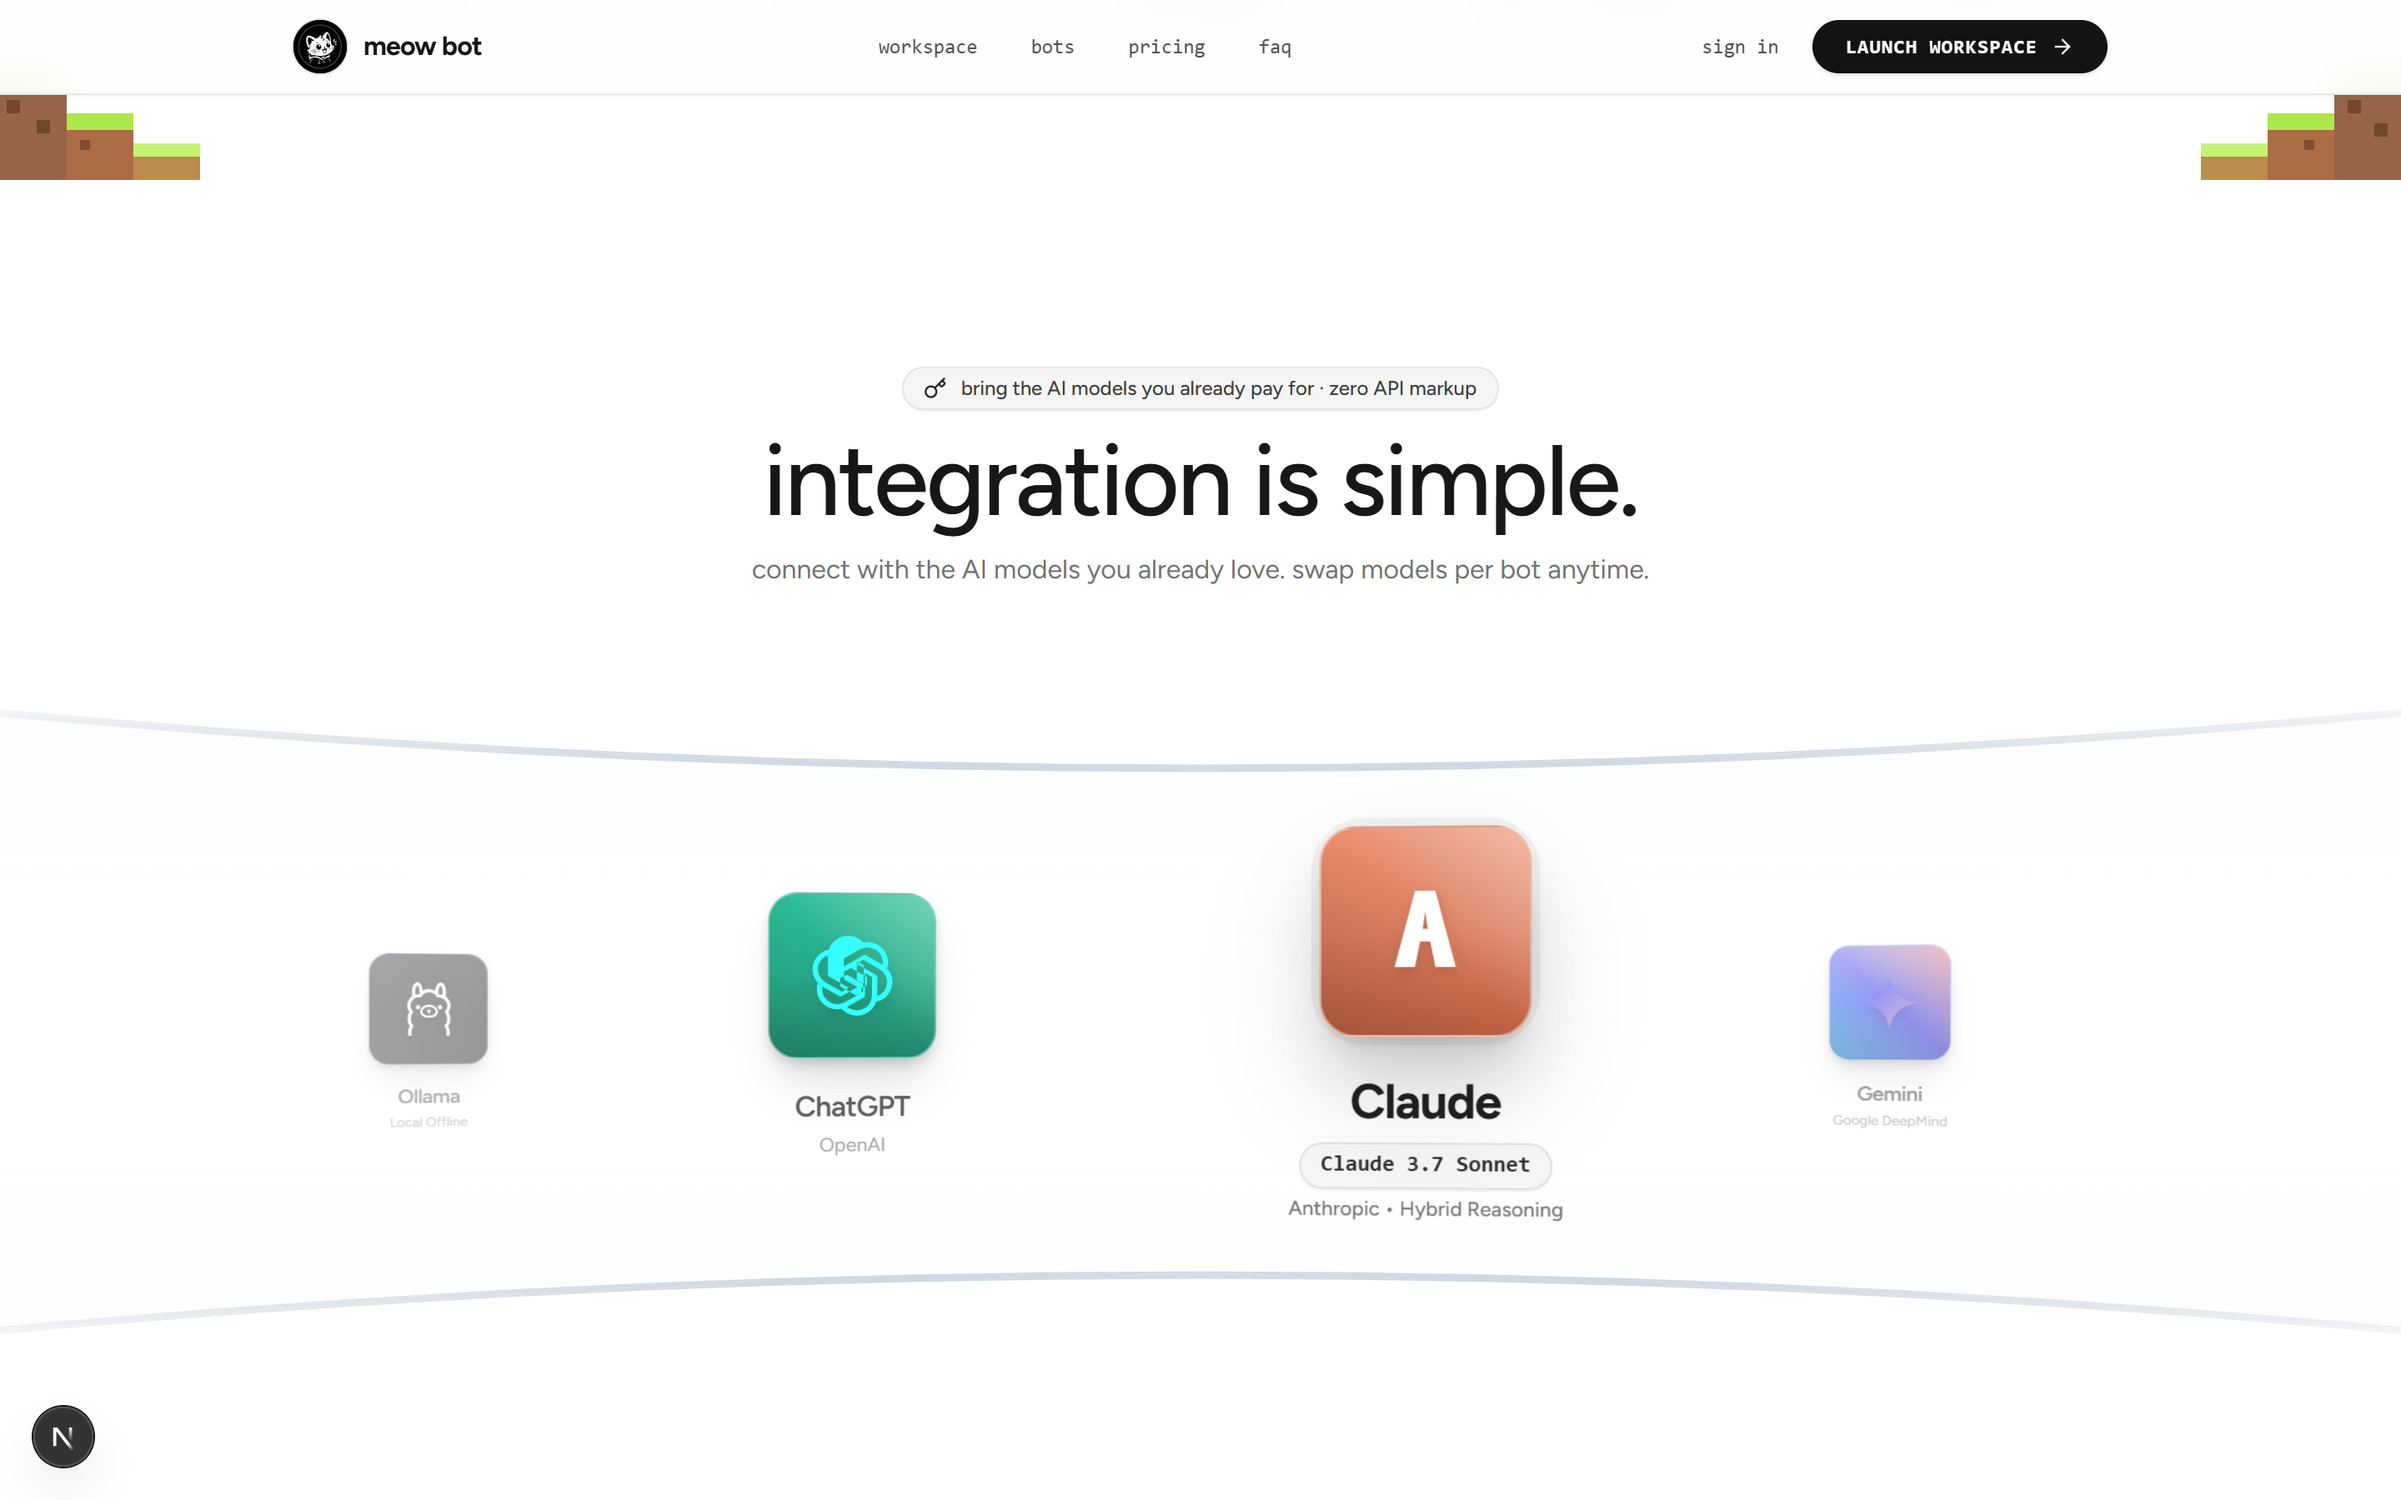
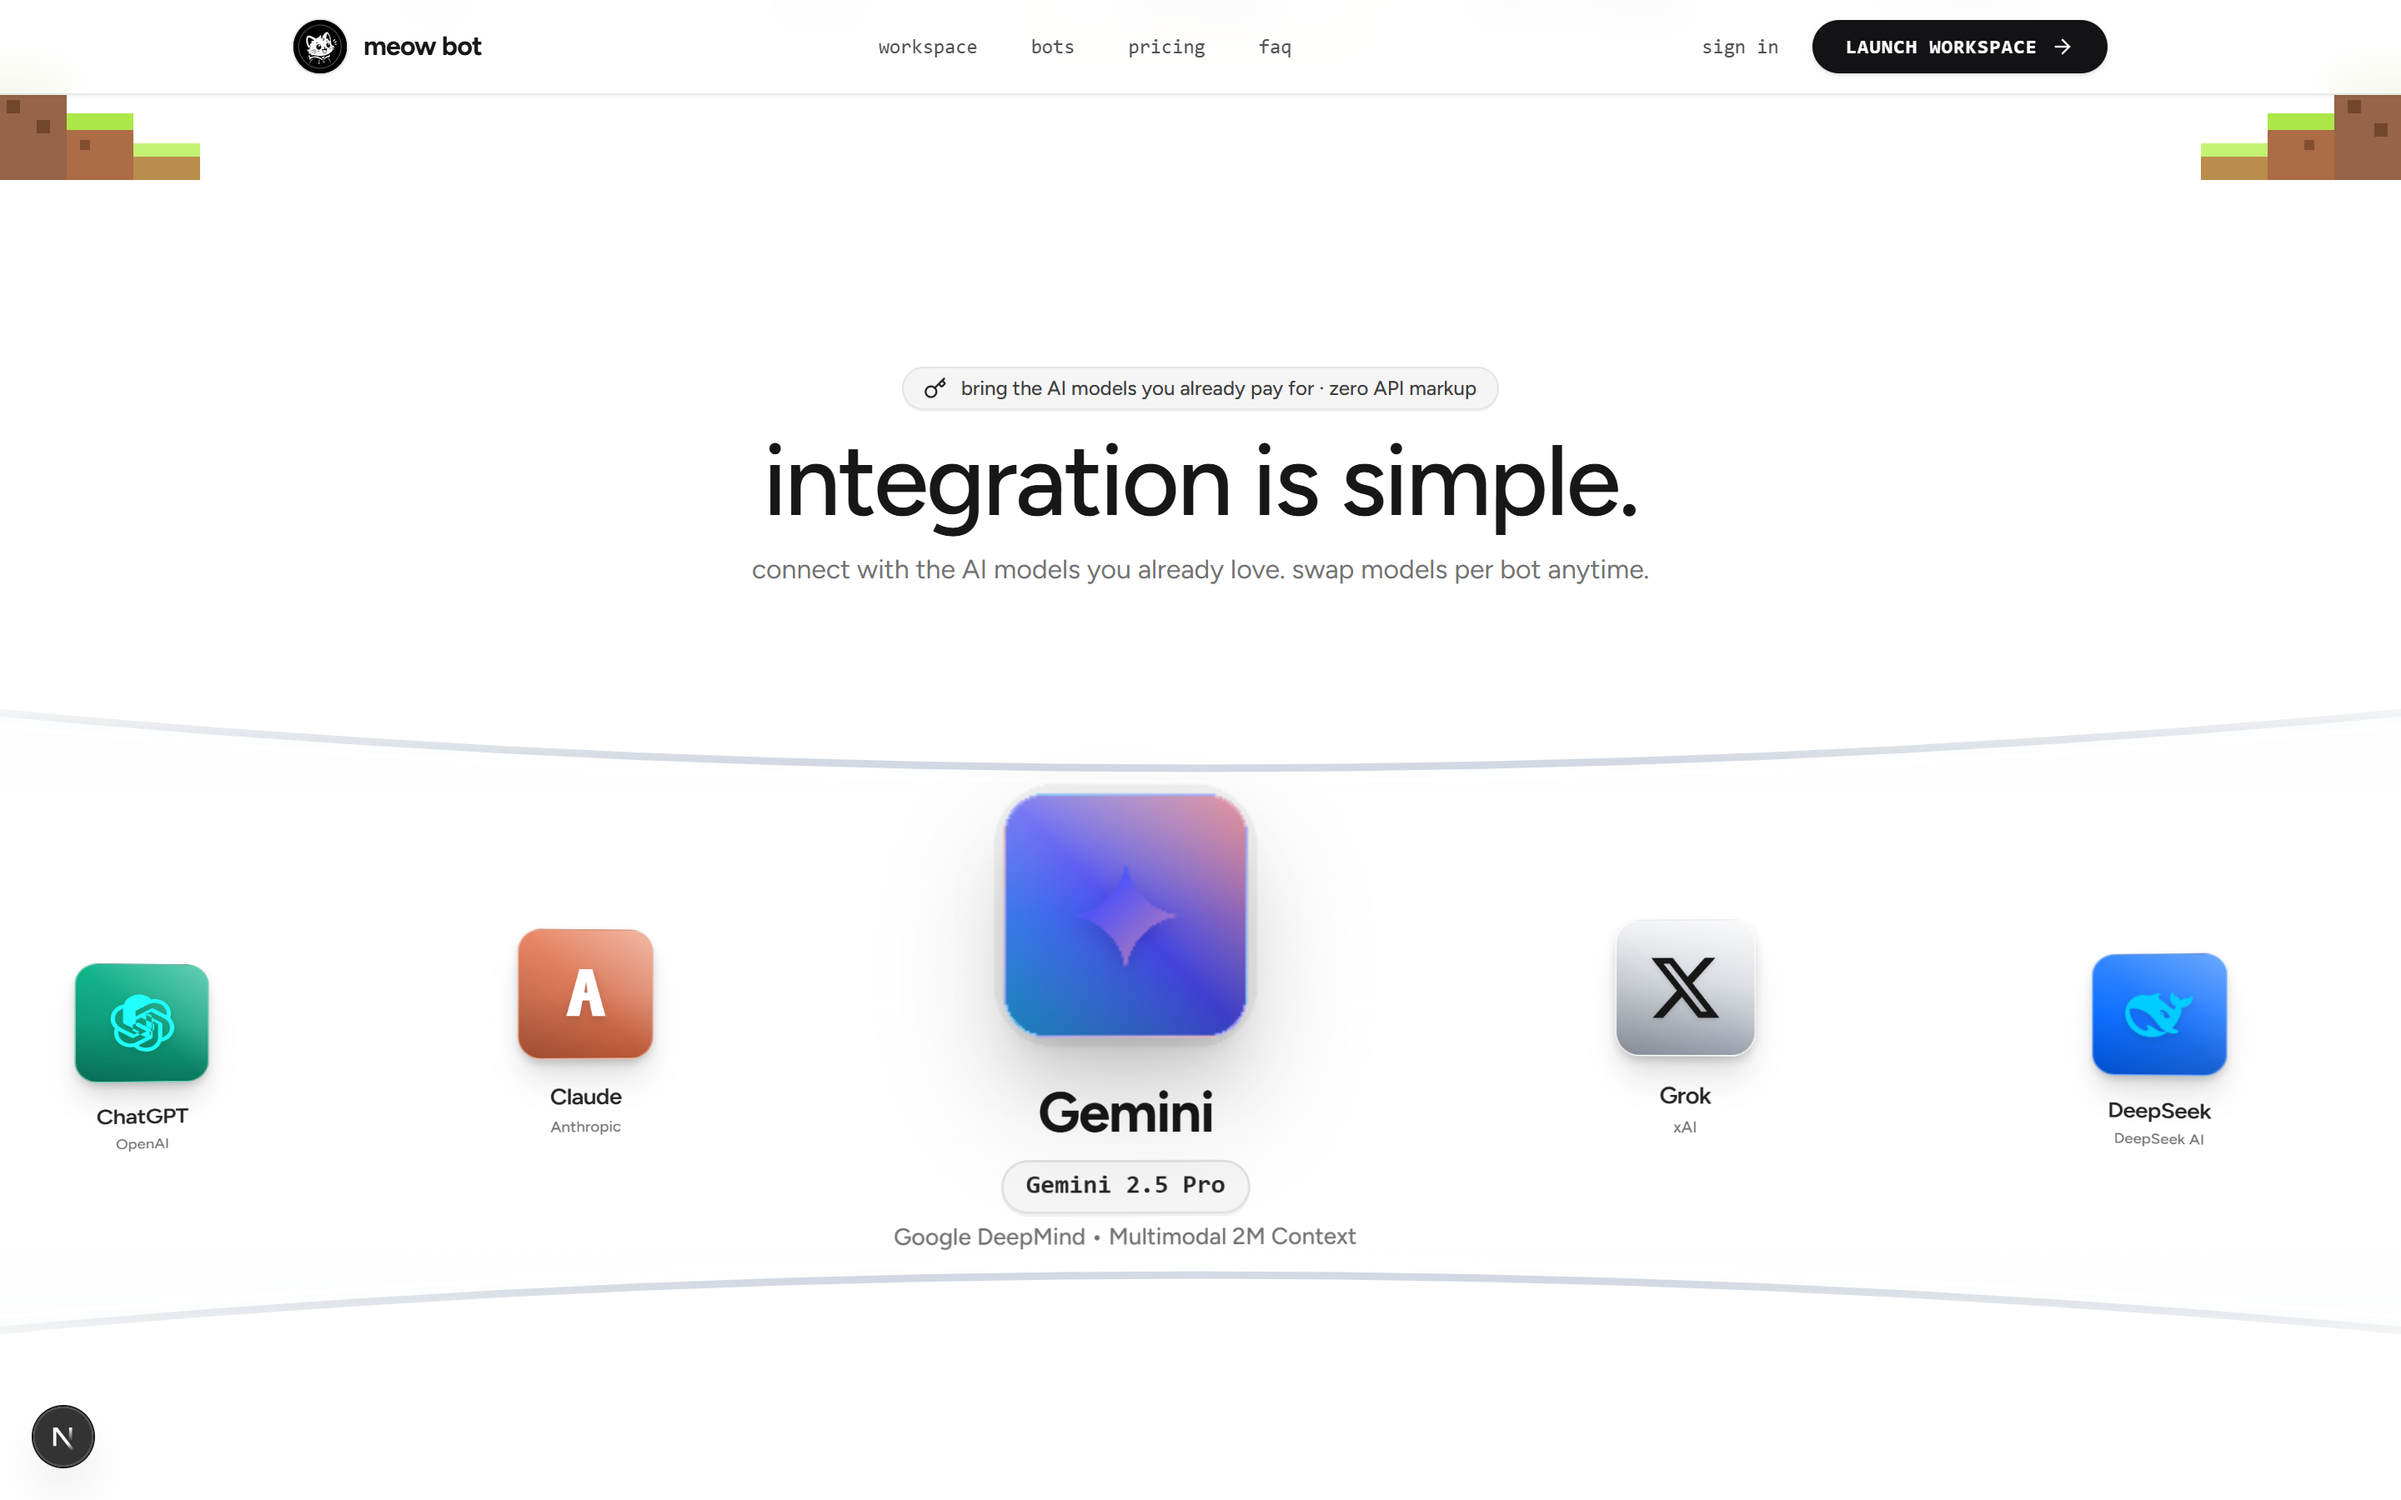
feat(landing): speed up marquee glide, remove blur and opacity fading, keep running on hover

diff --git a/components/custom/landing/integrations-carousel.tsx b/components/custom/landing/integrations-carousel.tsx
@@ -221,11 +221,11 @@ const DISPLAY_BRANDS = [...BRANDS, ...BRANDS];
 // Generous desktop horizontal spacing
 const DESKTOP_SPACING = 340;
 
-// Calm, elegant auto-scroll speed (pixels per second)
-const AUTO_SCROLL_SPEED = 46;
+// Brisk, energetic auto-scroll speed (pixels per second)
+const AUTO_SCROLL_SPEED = 86;
 
 // =========================================================================
-// 2. AUTOMATIC INFINITE 3D LENS CAROUSEL (NO SCROLL-JACKING, ZERO BLUR)
+// 2. AUTOMATIC INFINITE 3D LENS CAROUSEL (ZERO BLUR, CONTINUOUS MOTION)
 // =========================================================================
 
 export function IntegrationsCarousel() {
@@ -253,7 +253,6 @@ export function IntegrationsCarousel() {
   const offsetRef = useRef(0);
   const velocityRef = useRef(0);
   const targetOffsetRef = useRef<number | null>(null);
-  const isHoveredRef = useRef(false);
   const isDraggingRef = useRef(false);
   const dragStartXRef = useRef(0);
   const dragLastXRef = useRef(0);
@@ -261,6 +260,7 @@ export function IntegrationsCarousel() {
   const hasDraggedRef = useRef(false);
 
   // ── Continuous 60fps / 120fps requestAnimationFrame Loop ──
+  // Keeps running constantly without stopping on hover!
   useEffect(() => {
     let animationFrameId: number;
     let lastTime = performance.now();
@@ -285,10 +285,8 @@ export function IntegrationsCarousel() {
           velocityRef.current *= Math.pow(0.92, dt * 60);
         } else {
           velocityRef.current = 0;
-          // Constant elegant auto-advance when not hovered
-          if (!isHoveredRef.current) {
-            offsetRef.current += AUTO_SCROLL_SPEED * dt;
-          }
+          // Constant brisk auto-advance — keeps running all the time, never stops on hover!
+          offsetRef.current += AUTO_SCROLL_SPEED * dt;
         }
       }
 
@@ -359,14 +357,6 @@ export function IntegrationsCarousel() {
     velocityRef.current = Math.max(-1200, Math.min(1200, velocityRef.current));
   };
 
-  const handleMouseEnter = () => {
-    isHoveredRef.current = true;
-  };
-
-  const handleMouseLeave = () => {
-    isHoveredRef.current = false;
-  };
-
   return (
     <section
       id="integrations-carousel"
@@ -388,7 +378,7 @@ export function IntegrationsCarousel() {
           </p>
         </div>
 
-        {/* ── 2. THE 3D LENS CAROUSEL TARGET CONTAINER (AUTOMATIC INFINITE LOOP) ── */}
+        {/* ── 2. THE 3D LENS CAROUSEL TARGET CONTAINER (AUTOMATIC INFINITE LOOP - NO HOVER STOP) ── */}
         <div
           id="webgl-container"
           ref={containerRef}
@@ -396,8 +386,6 @@ export function IntegrationsCarousel() {
           onPointerMove={handlePointerMove}
           onPointerUp={handlePointerUp}
           onPointerCancel={handlePointerUp}
-          onMouseEnter={handleMouseEnter}
-          onMouseLeave={handleMouseLeave}
           className="relative w-full h-[430px] sm:h-[470px] flex items-center justify-center cursor-grab active:cursor-grabbing overflow-hidden my-auto"
           style={{
             perspective: "1200px",
@@ -470,7 +458,7 @@ export function IntegrationsCarousel() {
             </svg>
           </div>
 
-          {/* ── 3D WARPING CAROUSEL TRACK (ZERO BLUR, CONTINUOUS INFINITE MOTION, BIGGER CENTER) ── */}
+          {/* ── 3D WARPING CAROUSEL TRACK (STRICTLY ZERO BLUR, CONTINUOUS MOTION, PROMINENT CENTER) ── */}
           <div
             className="relative w-full h-full flex items-center justify-center pointer-events-none"
             style={{ transformStyle: "preserve-3d" }}
@@ -492,26 +480,27 @@ export function IntegrationsCarousel() {
               const absU = Math.abs(u);
 
               // ── 3D LENS WARPING & PROMINENT CENTER MAGNIFICATION ──
-              // 1. Center card blooms to ~1.38x, side cards rest cleanly at ~0.76x
+              // 1. Center card blooms to ~1.38x, side cards rest cleanly at ~0.78x
               const centerProximity = Math.max(0, 1 - Math.min(1, absDiff));
               const smoothProximity =
                 centerProximity * centerProximity * (3 - 2 * centerProximity);
-              const scale = 0.76 + smoothProximity * 0.62;
+              const scale = 0.78 + smoothProximity * 0.60;
 
-              // 2. Parabolic 3D Depth curve (curves backward into distance along glassy track)
-              const zDepth = -280 * (u * u) + smoothProximity * 80;
+              // 2. Parabolic 3D Depth curve (crisp and clear, shallow depth to eliminate mipmap softness)
+              const zDepth = -120 * (u * u) + smoothProximity * 50;
 
               // 3. 3D inward rotation along Y-axis (physical bowed lens curvature)
-              const rotY = -Math.sign(u) * Math.min(28, Math.pow(absU, 1.1) * 24);
+              const rotY = -Math.sign(u) * Math.min(26, Math.pow(absU, 1.1) * 22);
 
               // 4. Fisheye vertical arc curve
               const yOffset = 18 * (u * u);
 
-              // 5. Strictly ZERO BLUR (filter: "none"). Opacity gently fades only near outer boundaries
-              const opacity = Math.max(0, Math.min(1, 1 - Math.pow(absU, 1.8) * 0.65));
+              // 5. SOLID, CRISP VISIBILITY — ZERO BLUR, NO WASHED OUT OPACITY
+              // Every visible card on screen is 100% full opacity (opacity: 1)
+              const opacity = absU > 1.35 ? Math.max(0, 1 - (absU - 1.35) / 0.25) : 1;
 
               // Cull off-screen cards outside the visible lens arc
-              if (absU > 1.7) return null;
+              if (absU > 1.65) return null;
 
               const isCenterActive = absDiff < 0.45;
 
@@ -523,10 +512,12 @@ export function IntegrationsCarousel() {
                   style={{
                     width: "220px",
                     transform: `translate3d(${xOffset}px, ${yOffset}px, ${zDepth}px) rotateY(${rotY}deg) scale(${scale})`,
-                    filter: "none", // NO BLUR AS REQUESTED!
+                    filter: "none", // STRICTLY ZERO BLUR
                     opacity: opacity,
                     transformStyle: "preserve-3d",
-                    willChange: "transform, opacity",
+                    backfaceVisibility: "hidden",
+                    WebkitFontSmoothing: "antialiased",
+                    willChange: "transform",
                     zIndex: Math.round(200 - absDiff * 40 + (isCenterActive ? 60 : 0)),
                   }}
                 >
@@ -547,7 +538,7 @@ export function IntegrationsCarousel() {
                       className={`font-sans tracking-tight transition-all duration-200 ${
                         isCenterActive
                           ? "font-bold text-xl sm:text-2xl text-neutral-900"
-                          : "font-semibold text-base sm:text-lg text-neutral-600"
+                          : "font-semibold text-base sm:text-lg text-neutral-800"
                       }`}
                     >
                       {brand.name}
@@ -564,7 +555,7 @@ export function IntegrationsCarousel() {
                         </span>
                       </div>
                     ) : (
-                      <p className="text-xs text-neutral-400 font-normal mt-0.5">
+                      <p className="text-xs text-neutral-500 font-medium mt-0.5">
                         {brand.company}
                       </p>
                     )}
